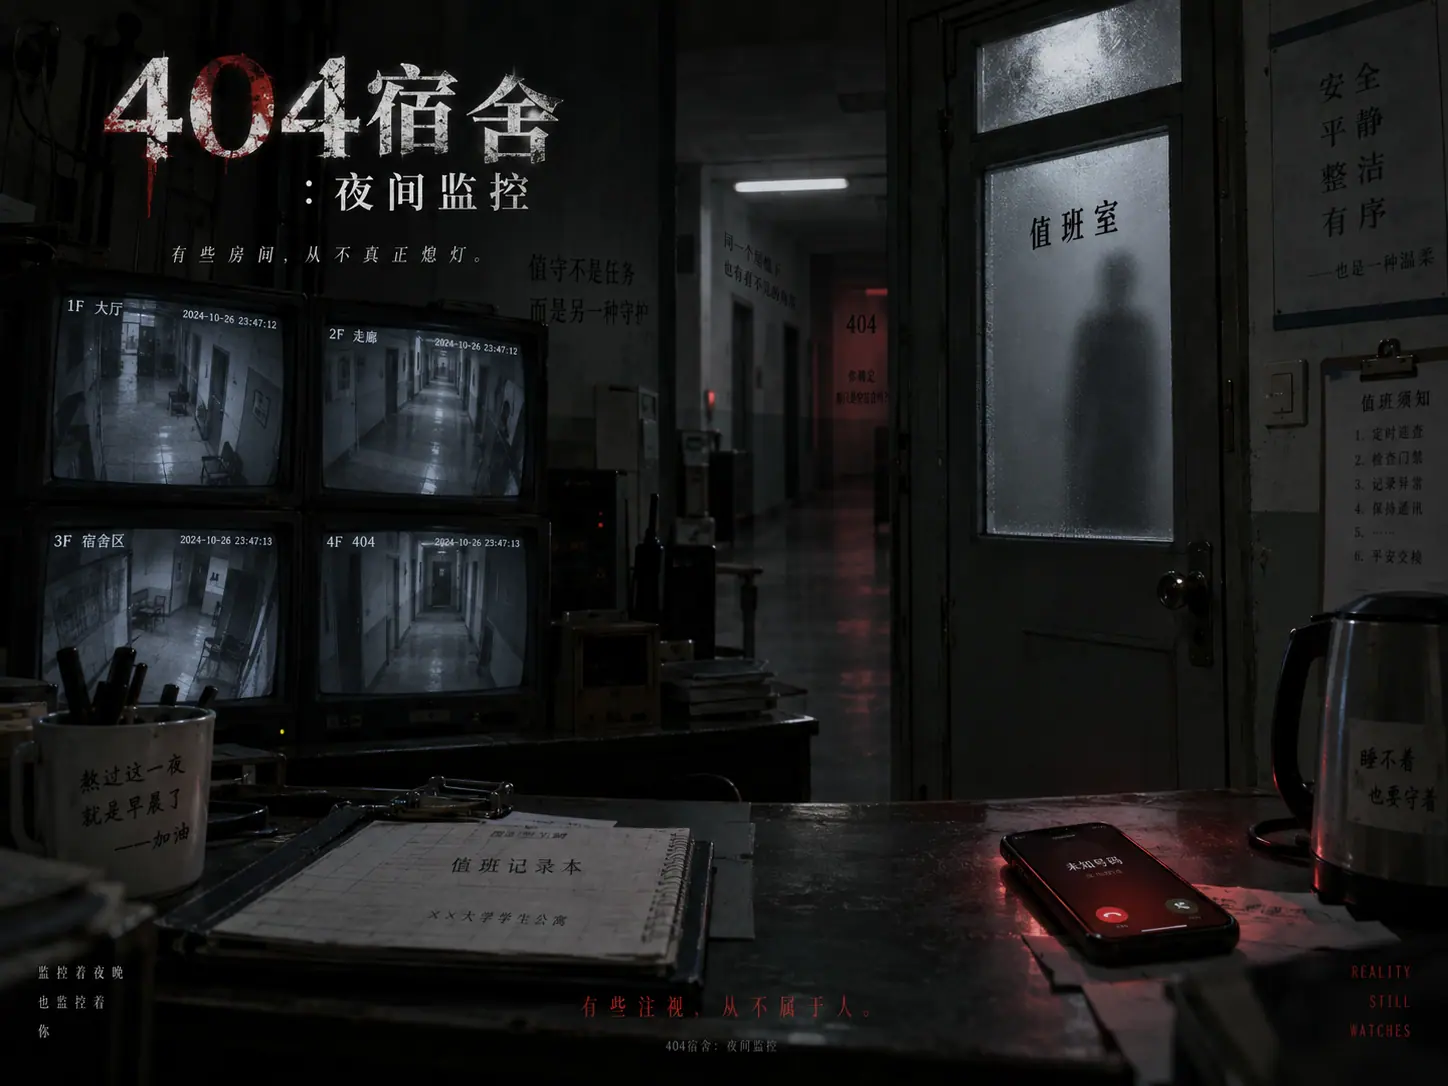
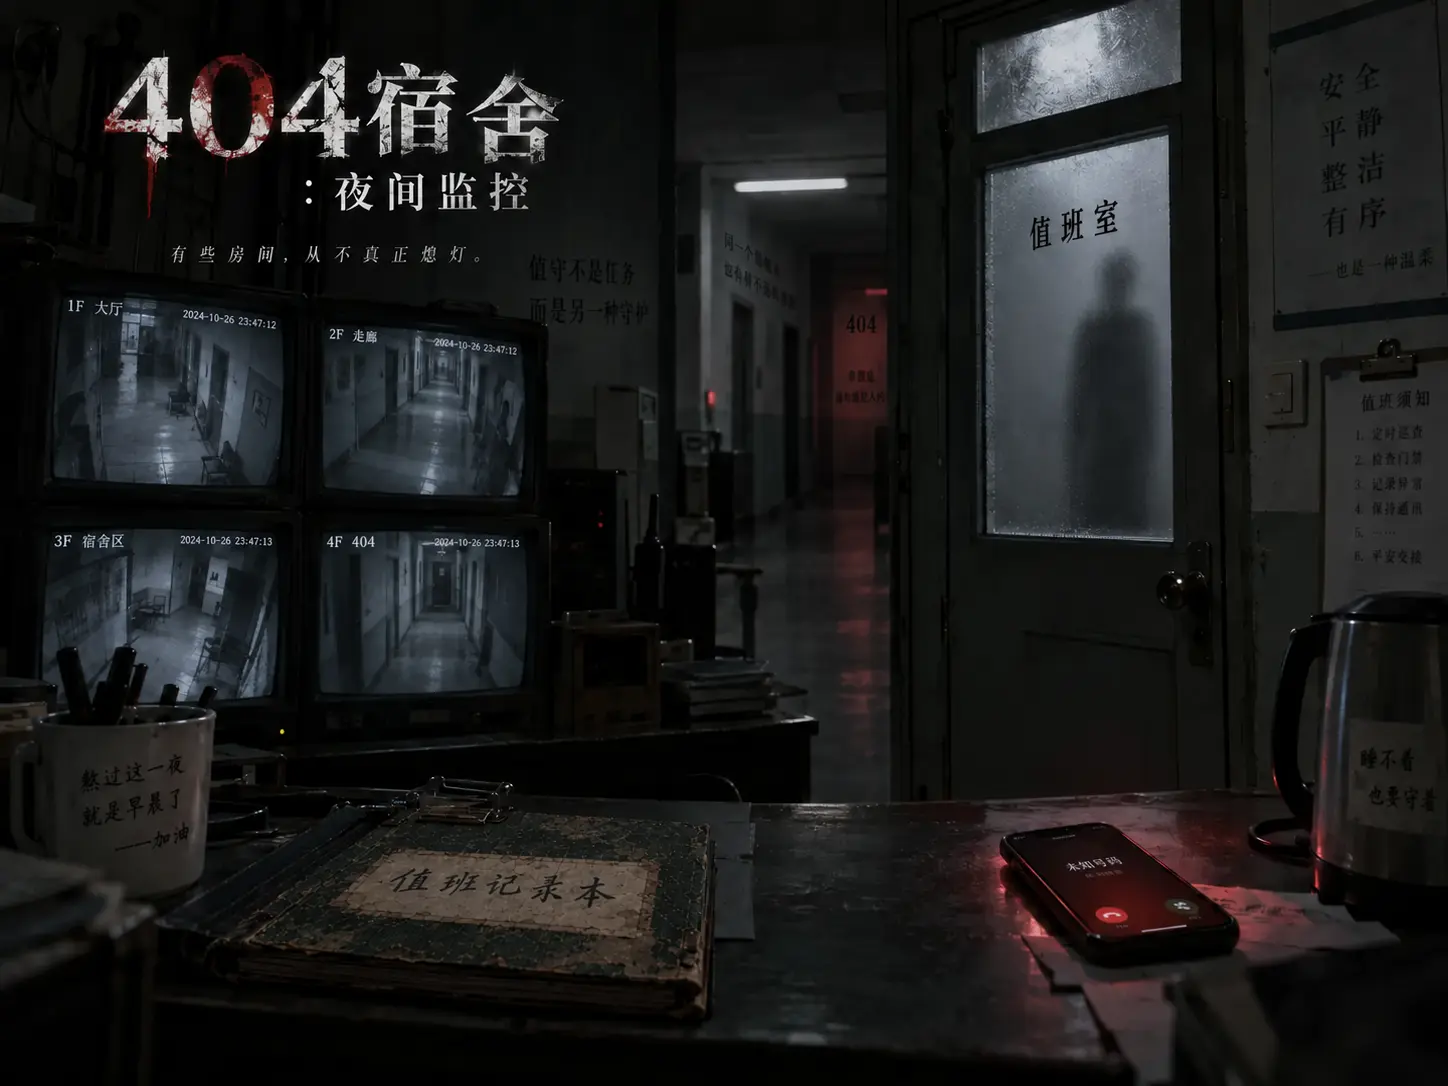
Match lobby ledger to archive book and move guidance aside

diff --git a/public/game/style.css b/public/game/style.css
@@ -552,7 +552,7 @@ body[data-phase="5"] .phone-title b,body[data-phase="5"] .phone-status{animation
 }
 @keyframes rotatePhoneHint{0%,30%,100%{transform:rotate(-12deg)}55%,75%{transform:rotate(12deg)}}
 @media(orientation:landscape) and (max-height:600px){
-  .room-view::before{content:"";position:absolute;inset:-2%;background:url("assets/duty-room-normal.webp") center/cover no-repeat;filter:blur(16px) brightness(.22);pointer-events:none}
+  .room-view::before{content:"";position:absolute;inset:-2%;background:url("assets/duty-room-normal.webp?v=room-ledger-20260927") center/cover no-repeat;filter:blur(16px) brightness(.22);pointer-events:none}
   .room-scene{inset:0 auto 0 50%;width:min(100vw,133.333dvh);transform:translateX(-50%)}
   .room-scene::after{content:"";position:absolute;z-index:1;left:0;right:0;top:0;height:27%;background:linear-gradient(#020505 0%,rgba(2,5,5,.93) 68%,transparent);pointer-events:none}
   .room-background{object-fit:contain;transform:none}
@@ -633,3 +633,15 @@ body[data-phase="5"] .phone-title b,body[data-phase="5"] .phone-status{animation
 @media(max-width:760px){.archive-entry{left:18%;bottom:1%;width:40%;height:25%}.room-caption{left:.35rem;bottom:.3rem;max-width:25%;padding:.3rem;font-size:.56rem}.archive-overlay{display:block;padding:.5rem}.archive-case{width:900px}.archive-rail>small{bottom:-12%}}
 @media(orientation:portrait){.archive-overlay{display:block;overflow:auto}.archive-case{width:900px;margin:auto}.archive-body{display:block;padding:0;background:none}}
 @media(orientation:landscape) and (max-height:600px){.archive-overlay{display:block;overflow:auto}.archive-case{width:900px}.archive-entry{left:20%;top:auto;right:auto;bottom:2%;width:33%;height:22%;padding:0}.room-caption{left:.4rem;bottom:.3rem;max-width:21%;font-size:.53rem}}
+
+/* The desk book remains a physical hotspot; instructions sit separately on the door's empty lower panel. */
+.room-guidance{position:absolute;z-index:3;right:2.7%;top:55%;width:20%;color:#d1c8ad;font:500 clamp(.7rem,1vw,.9rem)/1.5 ui-serif,"Noto Serif SC",serif;letter-spacing:.1em;text-shadow:0 2px 5px #000,0 0 12px #000;pointer-events:none}
+.room-guidance p{display:flex;align-items:center;gap:.75em;min-height:2.8em;margin:0;border-top:1px solid #a89d785c;white-space:nowrap}
+.room-guidance p:last-child{border-bottom:1px solid #a89d785c}
+.room-guidance span{font:400 .9em ui-monospace,monospace;color:#b1a688;letter-spacing:0}
+.room-guidance i{font-style:normal;color:#9a917b}
+.room-caption:empty{display:none}
+body[data-phase="4"] .room-guidance,body[data-phase="5"] .room-guidance{display:none}
+.room-hud{top:max(1.5rem,env(safe-area-inset-top))}
+@media(max-width:760px){.room-guidance{right:2.3%;top:55%;width:22%;font-size:clamp(.58rem,1.2vw,.74rem)}.room-guidance p{gap:.35em}}
+@media(orientation:landscape) and (max-height:600px){.room-guidance{right:2%;top:54%;width:22%;font-size:clamp(.55rem,1.25vw,.68rem)}.room-hud{top:max(.7rem,env(safe-area-inset-top))}}

diff --git a/public/game/index.html b/public/game/index.html
@@ -19,15 +19,15 @@
   <link rel="canonical" href="https://dorm-404-night-watch.pages.dev/">
   <link rel="icon" href="favicon.svg" type="image/svg+xml">
   <link rel="preload" as="image" href="assets/title-screen-normal.webp">
-  <link rel="preload" as="image" href="assets/duty-room-normal.webp">
-  <link rel="stylesheet" href="style.css?v=ledger-ink3-20260927">
+  <link rel="preload" as="image" href="assets/duty-room-normal.webp?v=room-ledger-20260927">
+  <link rel="stylesheet" href="style.css?v=room-ledger-20260927">
   <link rel="stylesheet" href="chair-fix.css">
 </head>
 <body data-phase="0" data-view="room">
   <main class="game" id="game">
     <section class="view room-view active" id="roomView" aria-label="值班室第一视角">
       <div class="room-scene">
-        <img class="room-background" id="roomBackground" src="assets/duty-room-normal.webp" alt="昏暗的宿舍楼值班室">
+        <img class="room-background" id="roomBackground" src="assets/duty-room-normal.webp?v=room-ledger-20260927" alt="昏暗的宿舍楼值班室">
         <div class="room-depth"></div>
         <header class="room-hud">
           <div><b>东区 4 号楼</b><span>夜间值班</span></div>
@@ -40,7 +40,12 @@
           <strong>查看 404 留言板</strong>
         </button>
         <button class="archive-entry" id="openArchive" type="button" aria-label="翻开桌上的值班记录本，查看档案"><span>翻开值班记录本</span></button>
-        <p class="room-caption" id="roomCaption">监控开始值班 · 桌上记录本查看档案 · 手机查看留言</p>
+        <div class="room-guidance" aria-label="大厅操作提示">
+          <p><span aria-hidden="true">01</span>监控 <i aria-hidden="true">·</i> 开始值班</p>
+          <p><span aria-hidden="true">02</span>记录本 <i aria-hidden="true">·</i> 查看档案</p>
+          <p><span aria-hidden="true">03</span>手机 <i aria-hidden="true">·</i> 访客留言</p>
+        </div>
+        <p class="room-caption" id="roomCaption"></p>
       </div>
     </section>
 
@@ -157,7 +162,7 @@
 
     <section class="turn-sequence hidden" id="turnSequence">
       <div class="turn-pan">
-        <img class="turn-frame turn-start" id="turnStart" src="assets/duty-room-normal.webp" alt="从监控前缓慢转身">
+        <img class="turn-frame turn-start" id="turnStart" src="assets/duty-room-normal.webp?v=room-ledger-20260927" alt="从监控前缓慢转身">
         <img class="turn-frame turn-mid" id="turnMid" src="assets/turn-mid-v2.webp" alt="转向值班室门口">
         <img class="turn-frame turn-final" id="turnImage" src="assets/turn-bad-v2.webp" alt="回头后的值班室">
       </div>
